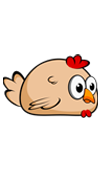
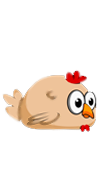
change to chicken theme with cars, roads, more grass, and skyline

Changed region(s): [[0.0297, 0.2924, 0.9802, 0.7895]]

diff --git a/js/app.js b/js/app.js
@@ -17,10 +17,10 @@ var Enemy = function(name,row,speed) {
     this.speed = speed;
     if (speed < 0) {
         this.x = 555;
-        this.sprite = 'images/enemy-bug2.png'; // drch: ADDED ALTERNATE DIRECTION FOR BUG
+        this.sprite = 'images/car_ivan2.png'; // drch: ADDED ALTERNATE DIRECTION FOR BUG
     } else {
         this.x = 0;
-        this.sprite = 'images/enemy-bug.png';
+        this.sprite = 'images/car_dmitri.png';
     }
     this.y = 65 + (row * rowHeight);
     allEnemies.push(this);
@@ -53,16 +53,16 @@ Enemy.prototype.update = function(dt) {
 Enemy.prototype.render = function() {
     // ctx.fillStyle = "rgba(100,100,100,0.5)"; // uncomment to highlight total png for each enemy
     // ctx.fillRect(this.x,this.y,101,171);
-    ctx.fillStyle = "rgba(255,0,255,0.75)"; // uncomment to highlight collision zone on each enemy
-    ctx.fillRect(this.x,this.y+78,101,65);
-    ctx.fillStyle = "red";   // uncomment to see goalLine
-    ctx.fillRect(0,132,500,4);
-    ctx.fillStyle = "blue"; // uncomment to see division lines (83 pixels apart)
-    ctx.fillRect(0,215,500,4);
-    ctx.fillRect(0,298,500,4);
-    ctx.fillRect(0,381,500,4);
-    ctx.fillRect(0,464,500,4);
-    ctx.fillRect(0,547,500,4);
+    // ctx.fillStyle = "rgba(255,0,255,0.75)"; // uncomment to highlight collision zone on each enemy
+    // ctx.fillRect(this.x,this.y+78,101,65);
+    // ctx.fillStyle = "red";   // uncomment to see goalLine
+    // ctx.fillRect(0,132,500,4);
+    // ctx.fillStyle = "blue"; // uncomment to see division lines (83 pixels apart)
+    // ctx.fillRect(0,215,500,4);
+    // ctx.fillRect(0,298,500,4);
+    // ctx.fillRect(0,381,500,4);
+    // ctx.fillRect(0,464,500,4);
+    // ctx.fillRect(0,547,500,4);
     ctx.drawImage(Resources.get(this.sprite), this.x, this.y);
 };
 
@@ -76,7 +76,7 @@ var Player = function () {
     this.y = 405;
     this.movementX = 0;
     this.movementY = 0;
-    this.sprite = 'images/char-boy.png';
+    this.sprite = 'images/chicken.png';
     // var test = this.sprite.width; // how to find width of sprite for the enemy to bump into it?
     // console.log(test); // ??
 };
@@ -154,7 +154,7 @@ Player.prototype.update = function() {
             audio.playHorn();
         }
         setTimeout(function(){
-            player.sprite = 'images/char-boy.png';
+            player.sprite = 'images/chicken.png';
             player.x = (405 / 2);
             player.y = 405;
             keysOn = 1;
@@ -182,8 +182,8 @@ Player.prototype.update = function() {
 Player.prototype.render = function() {
     // ctx.fillStyle = "rgba(255,255,255,0.5)"; // uncomment to highlight total png for player
     // ctx.fillRect(this.x,this.y,101,171);
-    ctx.fillStyle = "rgba(255,255,0,0.75)"; // uncomment to highlight collision zone for player
-    ctx.fillRect(this.x+20,this.y+65,63,74);
+    // ctx.fillStyle = "rgba(255,255,0,0.75)"; // uncomment to highlight collision zone for player
+    // ctx.fillRect(this.x+20,this.y+65,63,74);
     ctx.drawImage(Resources.get(this.sprite), this.x, this.y);
 };
 

diff --git a/js/engine.js b/js/engine.js
@@ -108,12 +108,16 @@ var Engine = (function(global) {
         /* This array holds the relative URL to the image used
          * for that particular row of the game level.
          */
+
+        // drch: add sklyine to top of canvas
+        ctx.drawImage(Resources.get('images/sky.png'), 0, 0);
+
         var rowImages = [
-                'images/water-block.png',   // Top row is water
-                'images/stone-block.png',   // Row 1 of 4 of stone
-                'images/stone-block.png',   // Row 2 of 4 of stone
-                'images/stone-block.png',   // Row 3 of 4 of stone
-                'images/stone-block.png',   // Row 4 of 4 of stone
+                'images/grass-block.png',   // Top row is water
+                'images/upper-road0.png',   // Row 1 of 4 of stone
+                'images/upper-road1.png',   // Row 2 of 4 of stone
+                'images/upper-road0.png',   // Row 3 of 4 of stone
+                'images/upper-road2.png',   // Row 4 of 4 of stone
                 'images/grass-block.png',   // Row 1 of 2 of grass
                 'images/grass-block.png'    // Row 2 of 2 of grass
             ],
@@ -176,7 +180,19 @@ var Engine = (function(global) {
         'images/char-boy.png',
         'images/enemy-bug2.png', // ADDED ALTERNATE DIRECTION FOR BUG
         'images/bang.png', // ADDED EXPLOSION FOR COLLISIONS
-        'images/chicken.png' // ADDED CHICKEN FOR PLAYER
+        'images/chicken.png', // ADDED CHICKEN FOR PLAYER
+        'images/chicken2.png',
+        'images/upper-road1.png', // ADDED NEW ROADS
+        'images/upper-road2.png',
+        'images/upper-road0.png',
+        'images/car_ivan2.png', // ADDED CARS INSTEAD OF BUGS
+        'images/car_dmitri.png',
+        'images/car_natasha.png',
+        'images/car_igor.png',
+        'images/car_boris.png',
+        'images/car_gregor.png',
+        'images/car_theodor.png',
+        'images/sky.png' // ADD SKYLINE
     ]);
     Resources.onReady(init);
 
